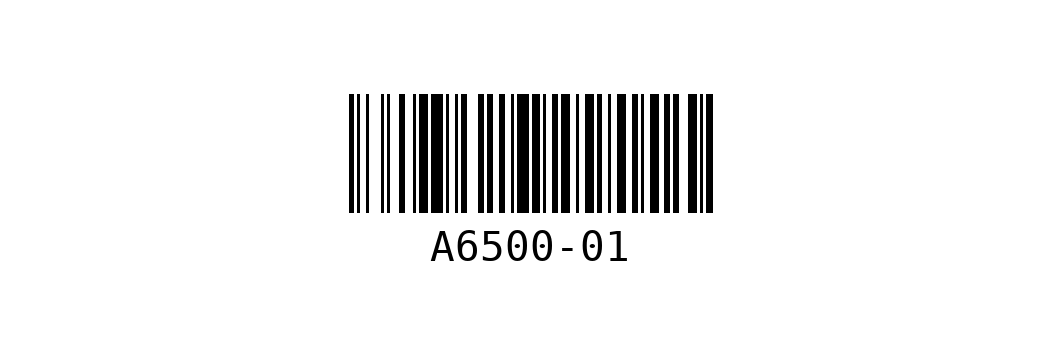
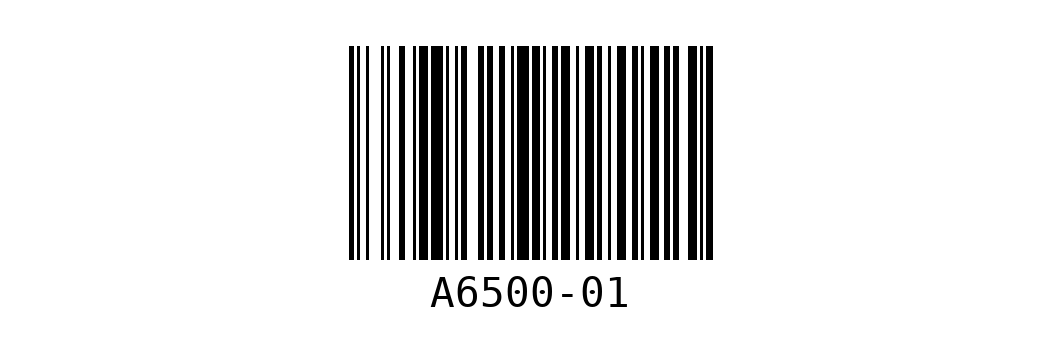
Make barcodes taller

Changed region(s): [[0.3107, 0.117, 0.6836, 0.2924], [0.3107, 0.614, 0.6836, 0.7602], [0.404, 0.7895, 0.5904, 0.9064]]

diff --git a/LabelGenerator.py b/LabelGenerator.py
@@ -81,7 +81,7 @@ def _qr_label(content: InventoryItem) -> PIL.Image:
 def _barcode_label(content: InventoryItem) -> PIL.Image:
     """Create a barcode label (Code 128) for the given content."""
     options = {
-        'module_height': 10,
+        'module_height': 18,
         'module_width': .25,
         'font_size': 10,
         'text_distance': 4.1,
